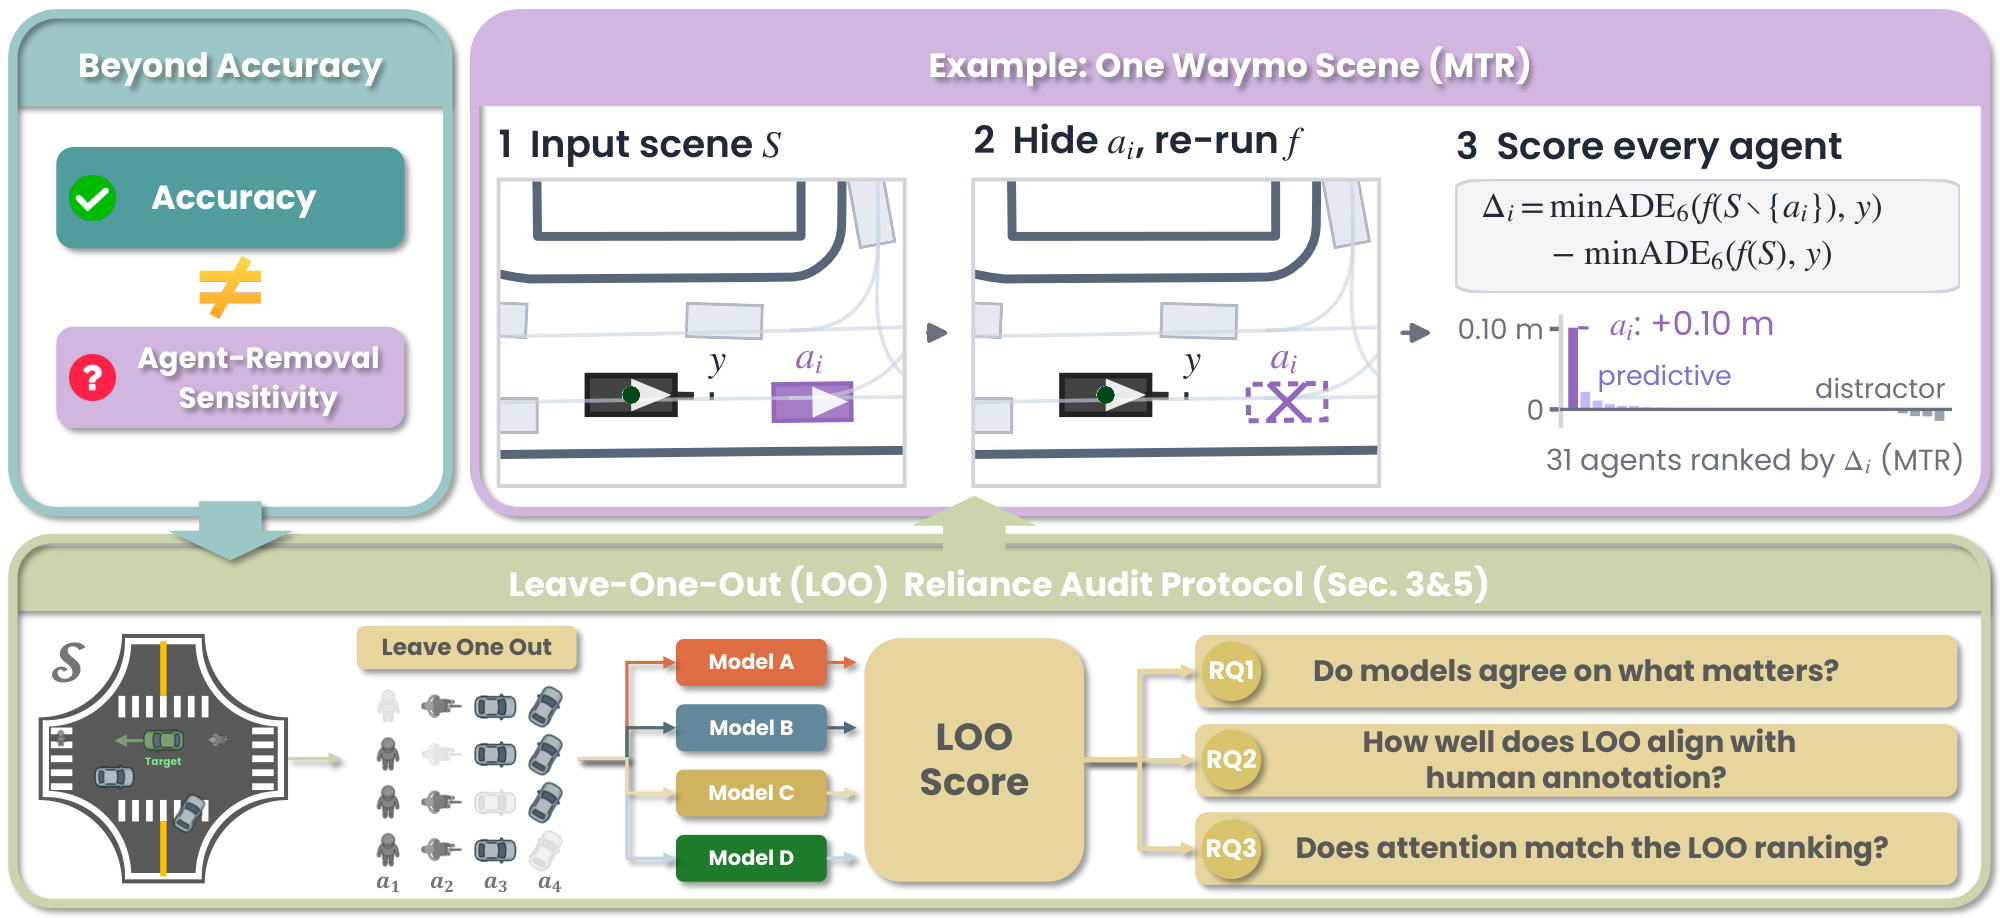
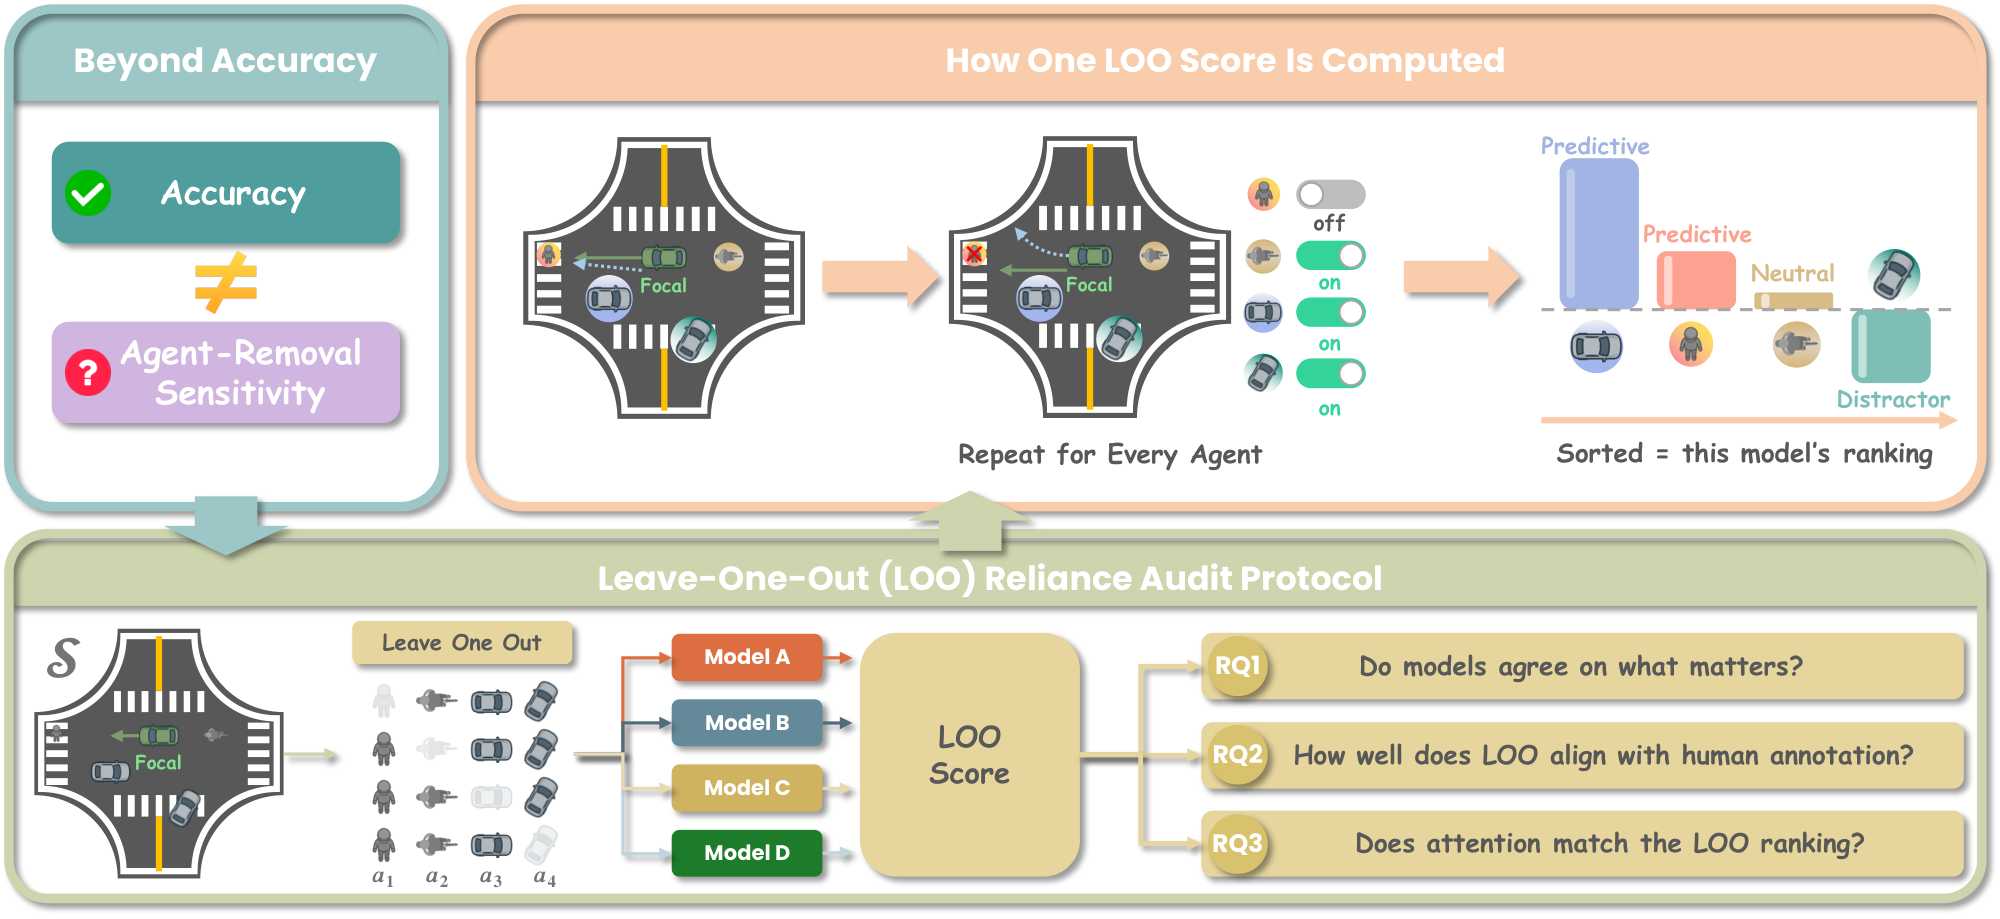
Use the redrawn protocol figure

diff --git a/index.html b/index.html
@@ -195,12 +195,12 @@
       </p>
     </div>
     <figure class="fig">
-      <img src="static/images/protocol.png" alt="The LOO Reliance Audit protocol and a worked example on one Waymo scene" loading="lazy">
+      <img src="static/images/protocol.png" alt="The LOO Reliance Audit protocol and how one LOO score is computed" loading="lazy">
       <figcaption class="fig-caption"><strong>The protocol.</strong> Bottom: each surrounding agent \(a_i\) of a scene
         \(S\) is masked in turn, the signed change in minADE<sub>6</sub> against the recorded future is its agent-removal
         sensitivity \(\Delta_i\), and the rankings are compared across models, with human causal labels, and with attention
-        (RQ1–RQ3). Top right: the same steps for MTR on the scene above, where hiding the vehicle ahead (\(a_i\)) costs the
-        most.</figcaption>
+        (RQ1–RQ3). Top right: one score in detail: switching off an agent changes the forecast, not the recorded future it
+        is scored against; repeating this for every agent and sorting gives the model's ranking.</figcaption>
     </figure>
   </div>
 </section>

diff --git a/src/page.html b/src/page.html
@@ -178,12 +178,12 @@
       </p>
     </div>
     <figure class="fig">
-      <img src="static/images/protocol.png" alt="The LOO Reliance Audit protocol and a worked example on one Waymo scene" loading="lazy">
+      <img src="static/images/protocol.png" alt="The LOO Reliance Audit protocol and how one LOO score is computed" loading="lazy">
       <figcaption class="fig-caption"><strong>The protocol.</strong> Bottom: each surrounding agent \(a_i\) of a scene
         \(S\) is masked in turn, the signed change in minADE<sub>6</sub> against the recorded future is its agent-removal
         sensitivity \(\Delta_i\), and the rankings are compared across models, with human causal labels, and with attention
-        (RQ1–RQ3). Top right: the same steps for MTR on the scene above, where hiding the vehicle ahead (\(a_i\)) costs the
-        most.</figcaption>
+        (RQ1–RQ3). Top right: one score in detail: switching off an agent changes the forecast, not the recorded future it
+        is scored against; repeating this for every agent and sorting gives the model's ranking.</figcaption>
     </figure>
   </div>
 </section>

diff --git a/src/make_images.py b/src/make_images.py
@@ -1,7 +1,7 @@
 """Render the paper figures used on the page into static/images/ (white background, web widths).
 
 Run after the paper figures change. Needs PyMuPDF (fitz) and the paper repository checkout.
-    python src/make_images.py [--figures /path/to/2026_NeurIPS_format/Figure]
+    python src/make_images.py [--figures /path/to/2026_NeurIPS_format/Figure] [protocol.png ...]
 """
 import argparse
 from pathlib import Path
@@ -10,7 +10,7 @@ import fitz  # PyMuPDF
 
 JOBS = {  # page image: (paper figure PDF, width in px)
     "overview.png": ("Fig_Overview_Cute_Comic.pdf", 2000),      # Fig. 1
-    "protocol.png": ("Teaser_v10_from_original.pdf", 2000),     # Fig. 3
+    "protocol.png": ("Teaser_v11_ppt.pdf", 2000),               # Fig. 3
     "validation.png": ("Fig_Validation_Summary_v4.pdf", 1800),  # Fig. 4
     "f1_heatmap.png": ("Fig2_Heatmap.pdf", 1600),               # Fig. 5
     "f2_prec1.png": ("Fig_F2_combined_a.pdf", 1100),            # Fig. 6a
@@ -28,10 +28,13 @@ def main():
     ap = argparse.ArgumentParser()
     ap.add_argument("--figures", type=Path,
                     default=Path("/home/geonyeong/park_ws/UniTraj/2026_NeurIPS_format/Figure"))
+    ap.add_argument("names", nargs="*", help="page images to render (default: all)")
     args = ap.parse_args()
     out = Path(__file__).resolve().parents[1] / "static/images"
     out.mkdir(parents=True, exist_ok=True)
     for name, (src, width) in JOBS.items():
+        if args.names and name not in args.names:
+            continue
         page = fitz.open(args.figures / src)[0]
         zoom = width / page.rect.width
         page.get_pixmap(matrix=fitz.Matrix(zoom, zoom), alpha=False).save(out / name)
